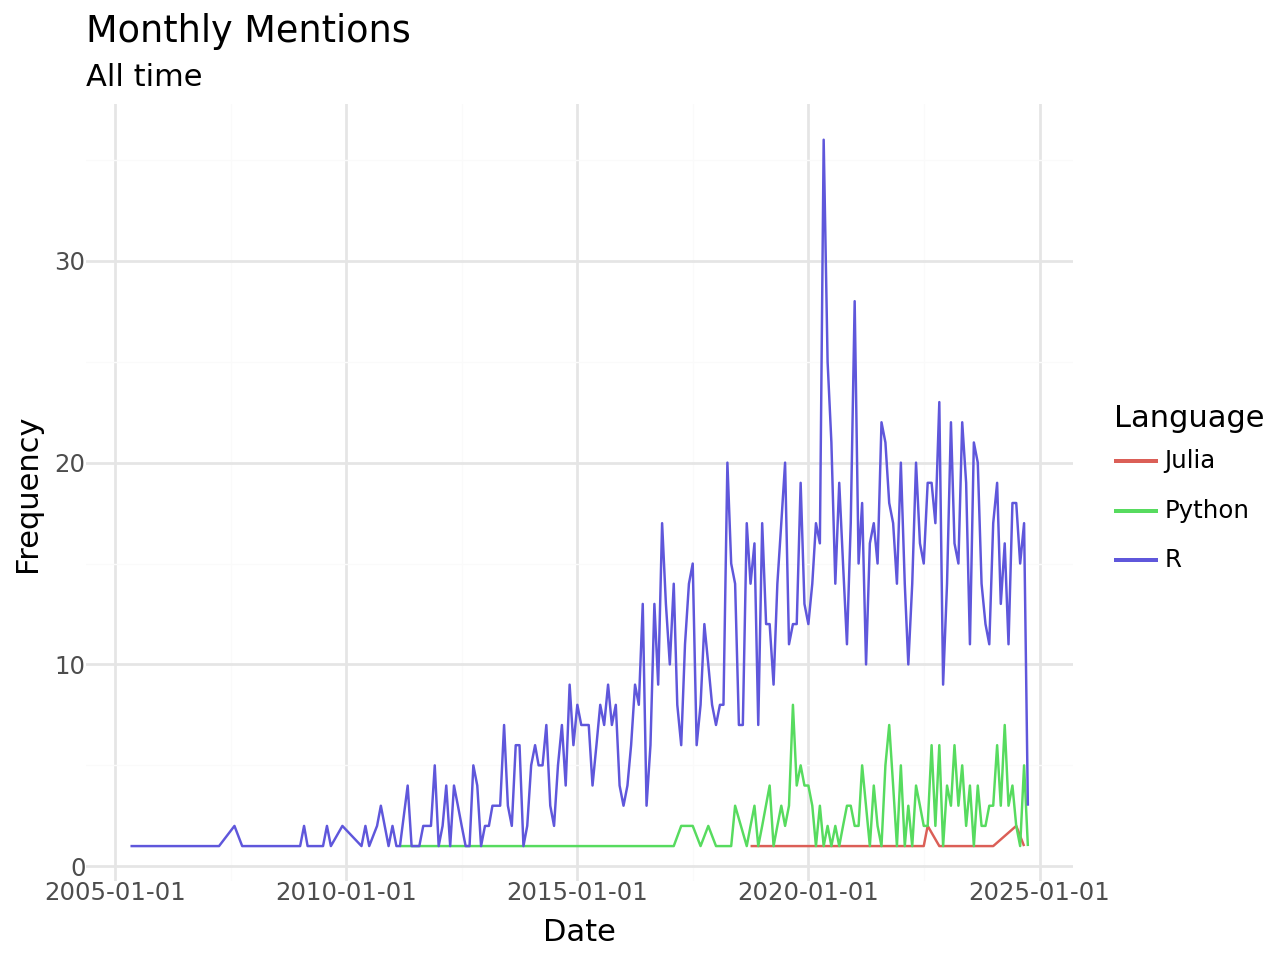
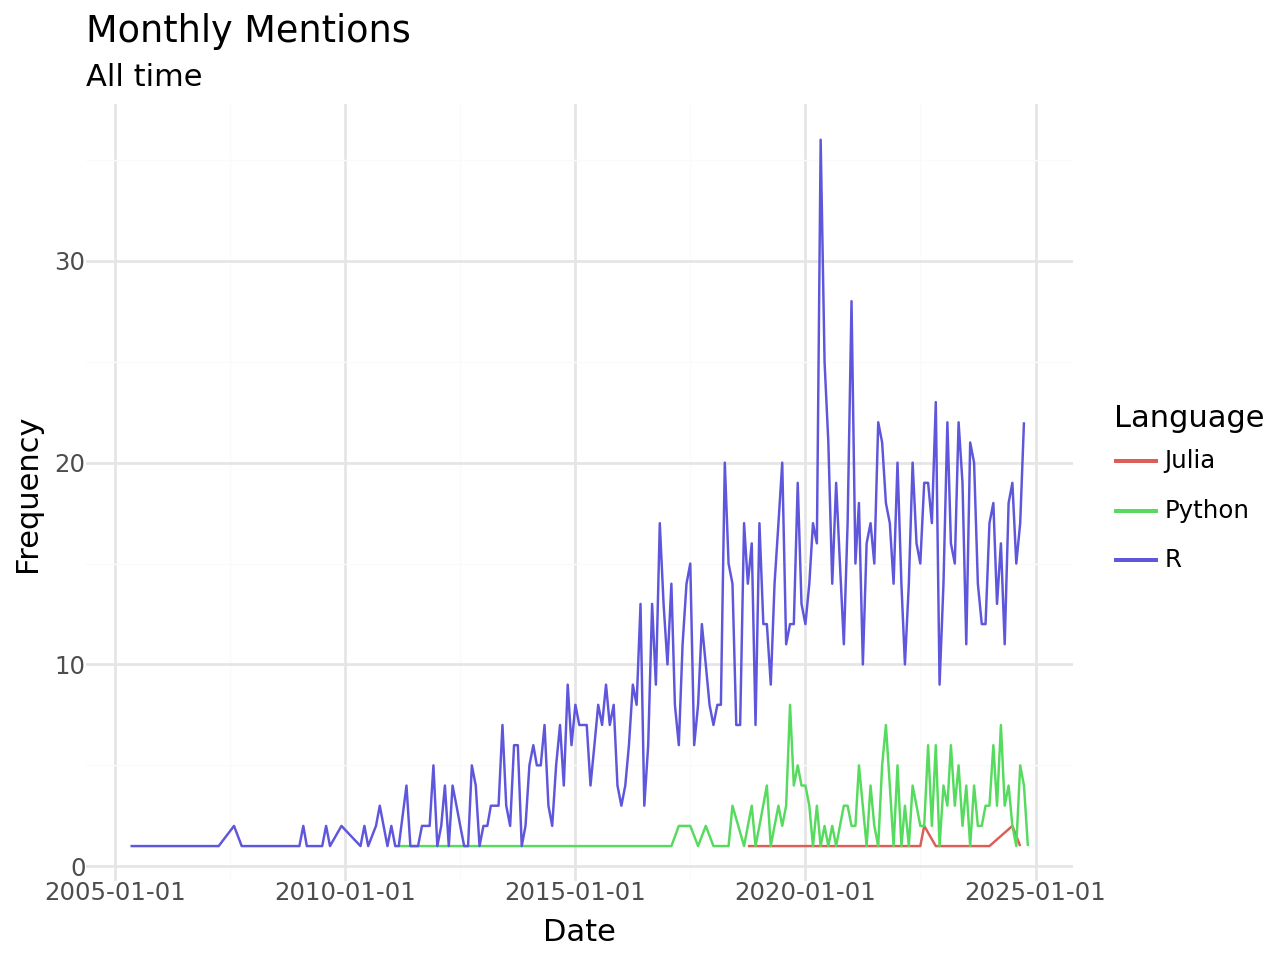
refreshed w/ latest data and updated styling to mirror other works

diff --git a/docs/index.html b/docs/index.html
@@ -72,7 +72,7 @@ ul.task-list li input[type="checkbox"] {
 <link rel="stylesheet" href="styles.css">
 </head>
 
-<body class="nav-fixed">
+<body class="nav-fixed fullcontent">
 
 <div id="quarto-search-results"></div>
   <header id="quarto-header" class="headroom fixed-top">
@@ -88,6 +88,12 @@ ul.task-list li input[type="checkbox"] {
   <span class="navbar-toggler-icon"></span>
 </button>
           <div class="collapse navbar-collapse" id="navbarCollapse">
+            <ul class="navbar-nav navbar-nav-scroll me-auto">
+  <li class="nav-item">
+    <a class="nav-link" href="https://sr-portfolio.thealgo.group"> 
+<span class="menu-text">Portfolio</span></a>
+  </li>  
+</ul>
             <ul class="navbar-nav navbar-nav-scroll ms-auto">
   <li class="nav-item compact">
     <a class="nav-link" href="https://www.linkedin.com/in/santiagorodriguez91/"> <i class="bi bi-linkedin" role="img">
@@ -115,19 +121,7 @@ ul.task-list li input[type="checkbox"] {
 <div id="quarto-content" class="quarto-container page-columns page-rows-contents page-layout-article page-navbar">
 <!-- sidebar -->
 <!-- margin-sidebar -->
-    <div id="quarto-margin-sidebar" class="sidebar margin-sidebar">
-        <nav id="TOC" role="doc-toc" class="toc-active">
-    <h2 id="toc-title">On this page</h2>
-   
-  <ul>
-  <li><a href="#about" id="toc-about" class="nav-link active" data-scroll-target="#about">About</a></li>
-  <li><a href="#overall" id="toc-overall" class="nav-link" data-scroll-target="#overall">Overall</a></li>
-  <li><a href="#results-by-month" id="toc-results-by-month" class="nav-link" data-scroll-target="#results-by-month">Results by Month</a></li>
-  <li><a href="#conclusion-and-next-steps" id="toc-conclusion-and-next-steps" class="nav-link" data-scroll-target="#conclusion-and-next-steps">Conclusion and Next Steps</a></li>
-  <li><a href="#appendix" id="toc-appendix" class="nav-link" data-scroll-target="#appendix">Appendix</a></li>
-  </ul>
-</nav>
-    </div>
+    
 <!-- main -->
 <main class="content" id="quarto-document-content">
 
@@ -156,7 +150,7 @@ ul.task-list li input[type="checkbox"] {
 </header>
 
 
-<p>Published on Oct 07, 2024</p>
+<p>Published on Nov 05, 2024</p>
 <section id="about" class="level1">
 <h1>About</h1>
 <p>Howdy</p>
@@ -173,13 +167,13 @@ ul.task-list li input[type="checkbox"] {
 <li>R:
 <ul>
 <li>search terms: “r package”</li>
-<li>1,769 results</li>
+<li>1,789 results</li>
 <li>first mentioned in 2005</li>
 </ul></li>
 <li>Python:
 <ul>
 <li>search terms: “python package” OR “python module”</li>
-<li>237 results</li>
+<li>241 results</li>
 <li>first mentioned in 2011</li>
 </ul></li>
 <li>Julia:
@@ -193,7 +187,7 @@ ul.task-list li input[type="checkbox"] {
 </section>
 <section id="results-by-month" class="level1">
 <h1>Results by Month</h1>
-<div id="786701b7" class="cell" data-execution_count="12">
+<div id="1e9518c7" class="cell" data-execution_count="12">
 <div class="cell-output cell-output-display">
 <div>
 <figure class="figure">
@@ -202,7 +196,7 @@ ul.task-list li input[type="checkbox"] {
 </div>
 </div>
 </div>
-<div id="613f1c08" class="cell" data-execution_count="13">
+<div id="1fc75e45" class="cell" data-execution_count="13">
 <div class="cell-output cell-output-display">
 <div>
 <figure class="figure">
@@ -352,6 +346,13 @@ window.document.addEventListener("DOMContentLoaded", function (event) {
         if (link.dataset.originalHref !== undefined) {
           link.href = link.dataset.originalHref;
         }
+          // target, if specified
+          link.setAttribute("target", "_blank");
+          if (link.getAttribute("rel") === null) {
+            link.setAttribute("rel", "noopener");
+          }
+          // default icon
+          link.classList.add("external");
       }
     }
   function tippyHover(el, contentFn, onTriggerFn, onUntriggerFn) {

diff --git a/docs/styles.css b/docs/styles.css
@@ -1,1 +1,107 @@
 /* css styles */
+/* General font styling */
+body {
+    font-family: 'Helvetica', Arial, sans-serif;
+    background-color: #ffffff;  /* Light background for readability */
+    color: #333333;  /* Dark text for high contrast */
+    line-height: 1.5;
+}
+
+/* Heading styles */
+h1, h2, h3, h4, h5, h6 {
+    font-family: 'Helvetica', sans-serif;
+    color: #005f73;
+    margin-bottom: 1rem;
+}
+
+h1 {
+    font-size: 2.5rem;
+}
+
+h1.title {
+    color: #005f73;
+}
+
+h2 {
+    font-size: 2rem;
+}
+
+h3 {
+    font-size: 1.75rem;
+}
+
+/* Links */
+a {
+    text-decoration: none;
+    font-weight: bold;
+}
+
+a:hover {
+    color: #ca6702;  /* Darker shade on hover */
+    text-decoration: underline;
+}
+
+/* Navigation bar */
+.navbar {
+    background-color: #e9ecef;
+    padding: 1rem;
+}
+
+.navbar a {
+    color: #005f73;
+    padding: 0.5rem 1rem;
+    text-transform: uppercase;
+}
+
+.navbar a:hover {
+    background-color: #94d2bd;
+    color: #fff;
+}
+
+/* Buttons */
+button, .btn {
+    background-color: #005f73;
+    color: white;
+    border-radius: 5px;
+    padding: 0.5rem 1rem;
+    border: none;
+    cursor: pointer;
+}
+
+button:hover, .btn:hover {
+    background-color: #0a9396;
+}
+
+/* Code blocks */
+pre {
+    background-color: #f0f4f8;
+    padding: 1rem;
+    border-radius: 5px;
+    overflow-x: auto;
+    font-size: 0.9rem;
+}
+
+/* Accessibility enhancements */
+button:focus, a:focus {
+    outline: 3px solid #ca6702;
+}
+
+a.skip-link {
+    position: absolute;
+    top: -40px;
+    left: 0;
+    background: #ffffff;
+    color: #005f73;
+    padding: 8px;
+    z-index: 100;
+    transition: top 0.3s;
+}
+
+a.skip-link:focus {
+    top: 0;
+}
+
+.quarto-title-banner {
+    background-color: #ffffff;  /* White background like the body */
+    border: none;               /* Optional: Remove any borders */
+}

diff --git a/styles.css b/styles.css
@@ -1,1 +1,107 @@
 /* css styles */
+/* General font styling */
+body {
+    font-family: 'Helvetica', Arial, sans-serif;
+    background-color: #ffffff;  /* Light background for readability */
+    color: #333333;  /* Dark text for high contrast */
+    line-height: 1.5;
+}
+
+/* Heading styles */
+h1, h2, h3, h4, h5, h6 {
+    font-family: 'Helvetica', sans-serif;
+    color: #005f73;
+    margin-bottom: 1rem;
+}
+
+h1 {
+    font-size: 2.5rem;
+}
+
+h1.title {
+    color: #005f73;
+}
+
+h2 {
+    font-size: 2rem;
+}
+
+h3 {
+    font-size: 1.75rem;
+}
+
+/* Links */
+a {
+    text-decoration: none;
+    font-weight: bold;
+}
+
+a:hover {
+    color: #ca6702;  /* Darker shade on hover */
+    text-decoration: underline;
+}
+
+/* Navigation bar */
+.navbar {
+    background-color: #e9ecef;
+    padding: 1rem;
+}
+
+.navbar a {
+    color: #005f73;
+    padding: 0.5rem 1rem;
+    text-transform: uppercase;
+}
+
+.navbar a:hover {
+    background-color: #94d2bd;
+    color: #fff;
+}
+
+/* Buttons */
+button, .btn {
+    background-color: #005f73;
+    color: white;
+    border-radius: 5px;
+    padding: 0.5rem 1rem;
+    border: none;
+    cursor: pointer;
+}
+
+button:hover, .btn:hover {
+    background-color: #0a9396;
+}
+
+/* Code blocks */
+pre {
+    background-color: #f0f4f8;
+    padding: 1rem;
+    border-radius: 5px;
+    overflow-x: auto;
+    font-size: 0.9rem;
+}
+
+/* Accessibility enhancements */
+button:focus, a:focus {
+    outline: 3px solid #ca6702;
+}
+
+a.skip-link {
+    position: absolute;
+    top: -40px;
+    left: 0;
+    background: #ffffff;
+    color: #005f73;
+    padding: 8px;
+    z-index: 100;
+    transition: top 0.3s;
+}
+
+a.skip-link:focus {
+    top: 0;
+}
+
+.quarto-title-banner {
+    background-color: #ffffff;  /* White background like the body */
+    border: none;               /* Optional: Remove any borders */
+}

diff --git a/README.md b/README.md
@@ -2,13 +2,15 @@
 
 An analysis of packages discussed, presented, mentioned in arxiv.
 
-Github Pages URL: [https://saintrod.github.io/arxiv_pkg_analysis/](https://saintrod.github.io/arxiv_pkg_analysis/).
+Github Pages URL: [https://saintrod.github.io/arxiv_pkg_analysis/](https://saintrod.github.io/arxiv_pkg_analysis/){.external target="_blank"}.
 
 # Software
 
 - Python 3.10
-    - arxiv, plotnine, polars
-- Quarto
+    - arxiv
+    - plotnine
+    - polars
+- Quarto 15
 
 # Other
 
@@ -16,4 +18,4 @@ To replicate:
 
 1. Create a virtual environment (e.g., `python3.10 -m venv .venv`)
 2. Activate the virtual environment (e.g., `source .venv/bin/activate`)
-3. Use pip to install the project packages via the requirements.txt file
+3. Use pip to install the project packages via the requirements.txt file (e.g., `pip install -r requirements.txt`)
